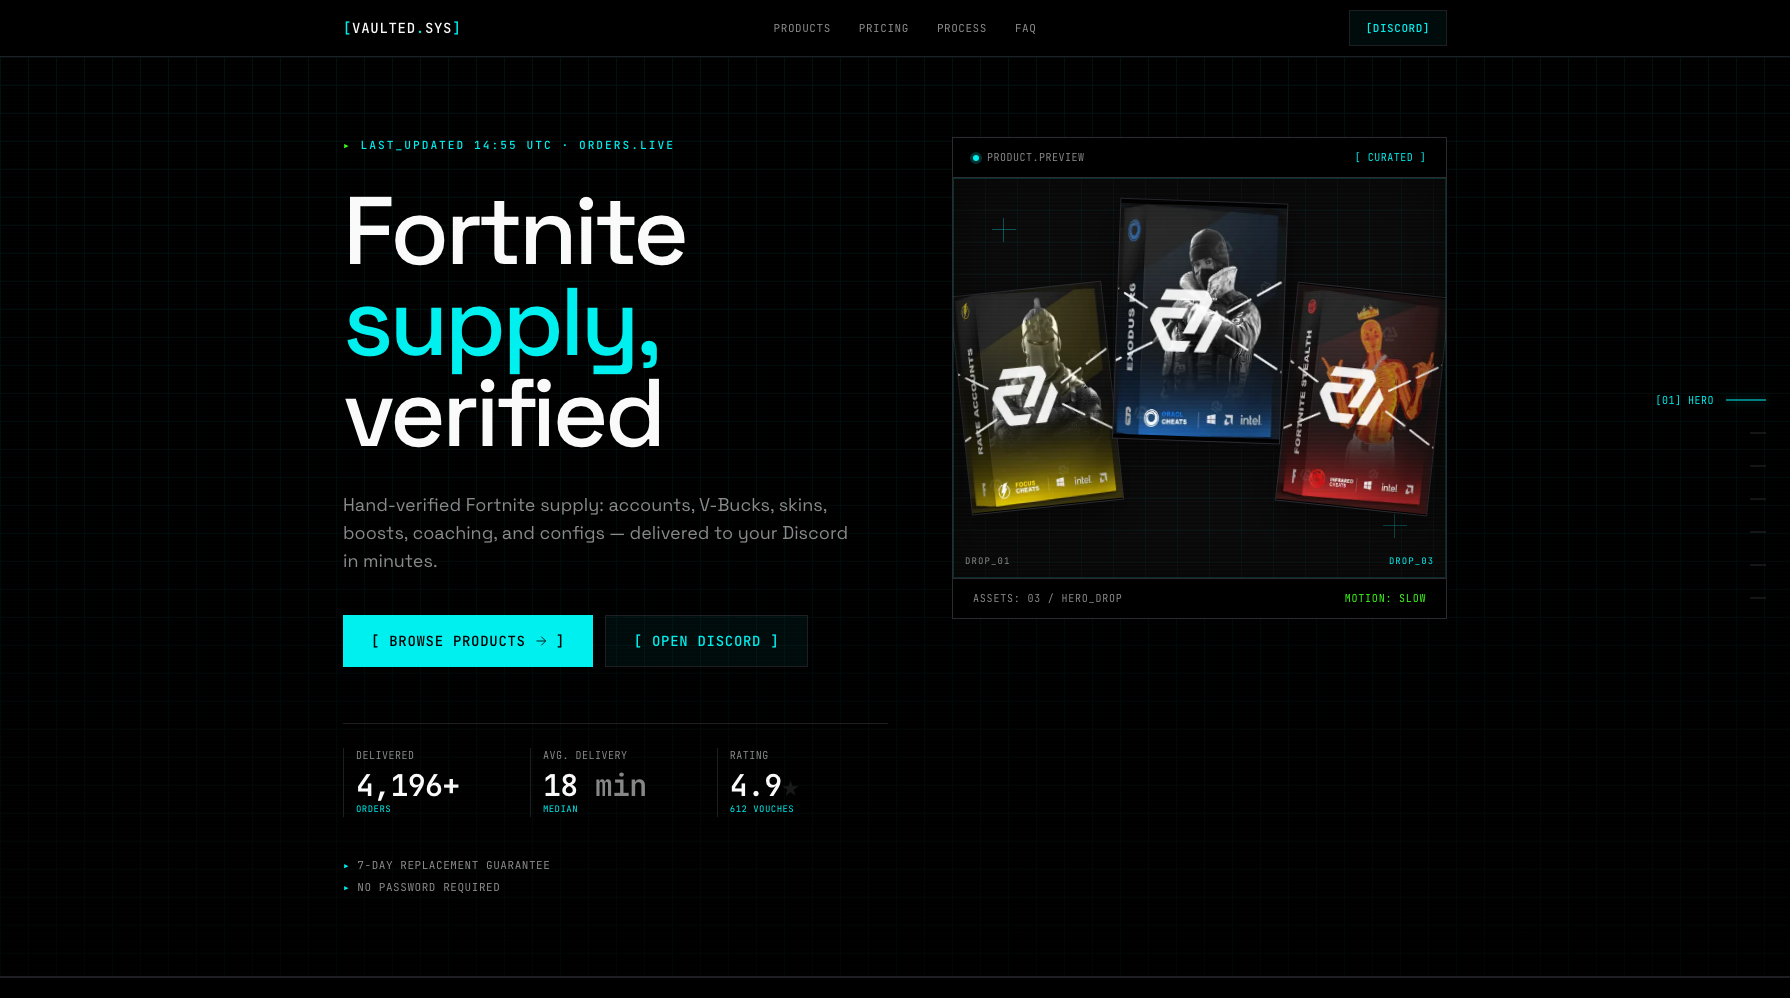
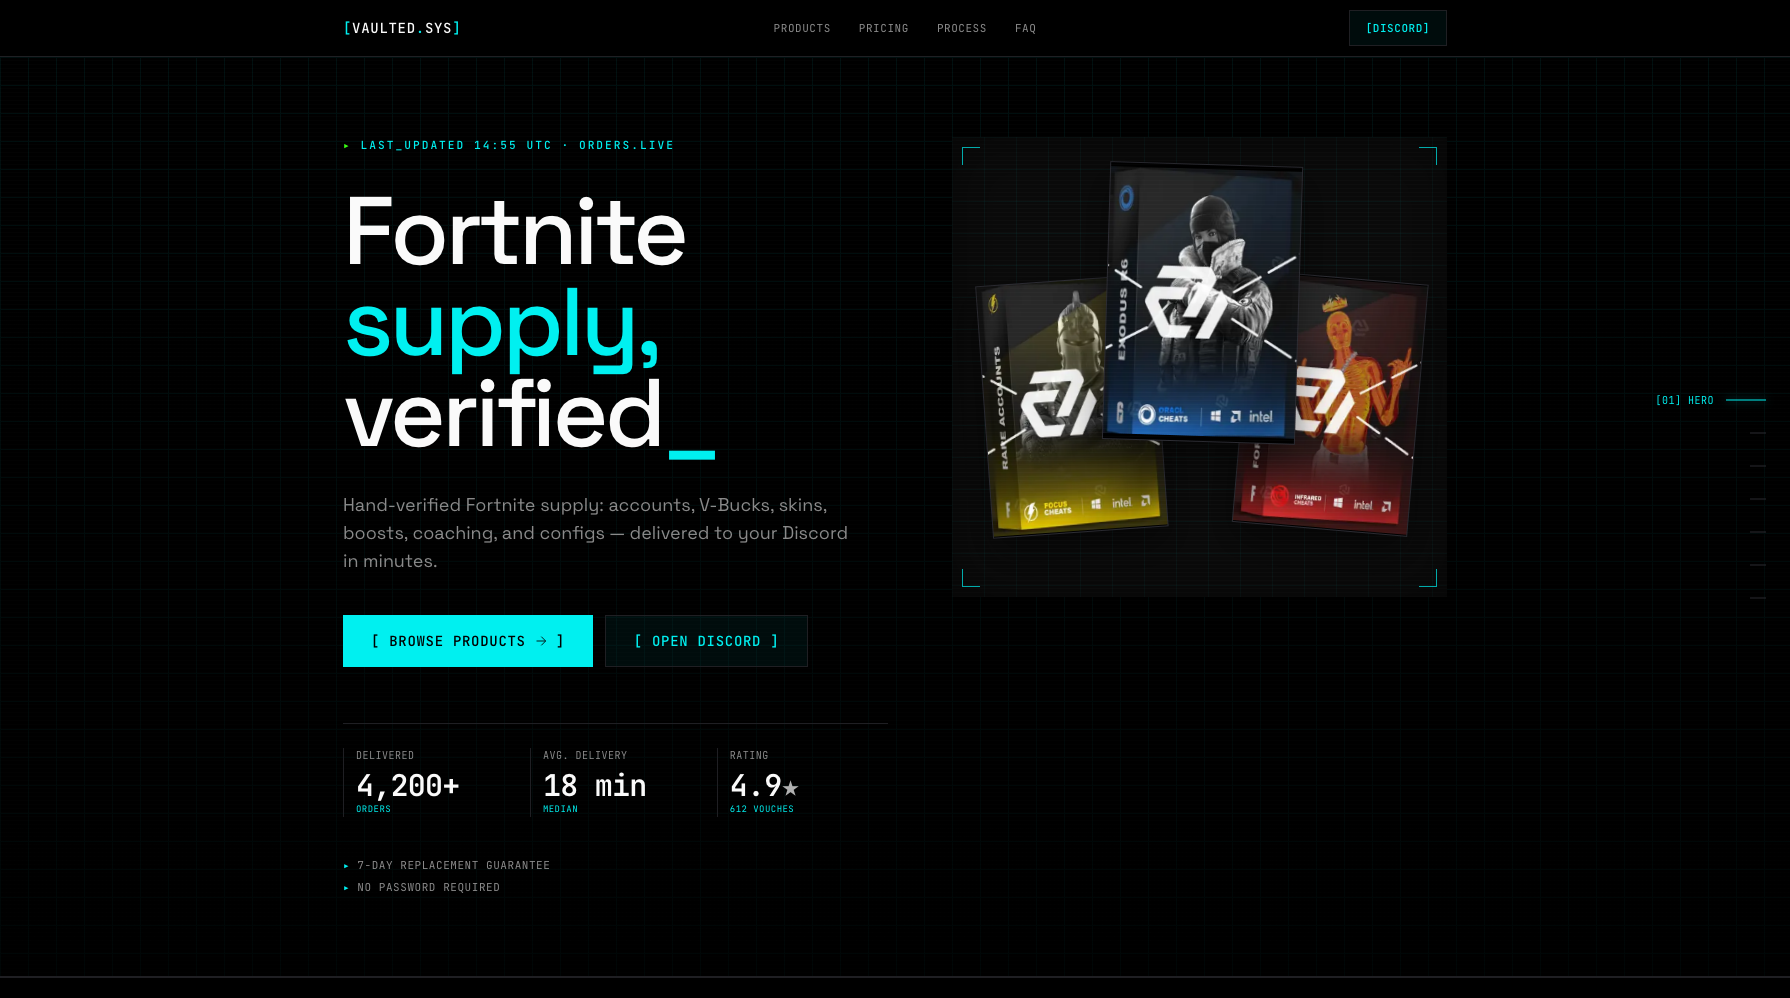
feat(hero): frameless instrument viewport with elliptical product float

diff --git a/src/app/globals.css b/src/app/globals.css
@@ -581,41 +581,14 @@ body {
 .product-stage__frame {
   position: relative;
   overflow: hidden;
-  border: 1px solid var(--border-bright);
-  background: var(--surface);
-}
-
-.product-stage__topbar,
-.product-stage__bottombar {
-  display: flex;
-  align-items: center;
-  justify-content: space-between;
-  gap: 1rem;
-  min-height: 40px;
-  padding: 0.625rem 1.25rem;
-  font-family: var(--font-jetbrains-mono), ui-monospace, monospace;
-  font-size: 10px;
-  line-height: 1.4;
-  letter-spacing: 0.08em;
-  text-transform: uppercase;
-}
-
-.product-stage__topbar {
-  border-bottom: 1px solid var(--border-bright);
-  background: var(--bg);
-}
-
-.product-stage__bottombar {
-  border-top: 1px solid var(--border-bright);
-  background: var(--bg);
-  color: var(--muted);
+  background: transparent;
 }
 
 .product-stage__canvas {
   position: relative;
   isolation: isolate;
   overflow: hidden;
-  height: clamp(320px, 32vw, 400px);
+  height: clamp(360px, 36vw, 460px);
   background-color: var(--surface);
   background-image:
     linear-gradient(to right, rgb(0 240 240 / 0.045) 1px, transparent 1px),
@@ -642,10 +615,53 @@ body {
   position: absolute;
   inset: 0;
   z-index: 5;
-  border: 1px solid rgb(0 240 240 / 0.12);
   box-shadow: inset 0 0 56px rgb(0 0 0 / 0.5);
   content: "";
   pointer-events: none;
+}
+
+.product-stage__corners {
+  position: absolute;
+  inset: 0;
+  z-index: 6;
+  pointer-events: none;
+}
+
+.product-stage__corner {
+  position: absolute;
+  width: 18px;
+  height: 18px;
+  border-color: var(--accent);
+  border-style: solid;
+  opacity: 0.7;
+}
+
+.product-stage__corner--top-left {
+  top: 10px;
+  left: 10px;
+  border-top-width: 1px;
+  border-left-width: 1px;
+}
+
+.product-stage__corner--top-right {
+  top: 10px;
+  right: 10px;
+  border-top-width: 1px;
+  border-right-width: 1px;
+}
+
+.product-stage__corner--bottom-left {
+  bottom: 10px;
+  left: 10px;
+  border-bottom-width: 1px;
+  border-left-width: 1px;
+}
+
+.product-stage__corner--bottom-right {
+  right: 10px;
+  bottom: 10px;
+  border-right-width: 1px;
+  border-bottom-width: 1px;
 }
 
 .product-stage__crosshair {
@@ -692,7 +708,7 @@ body {
 .product-stage__image {
   position: absolute;
   z-index: 2;
-  width: clamp(104px, 31%, 164px);
+  width: clamp(112px, 35.5%, 189px);
   aspect-ratio: 0.696;
   margin: 0;
   overflow: hidden;
@@ -703,23 +719,23 @@ body {
 }
 
 .product-stage__image--one {
-  top: 30%;
-  left: 2%;
-  animation: product-float-one 7.2s var(--ease-out-expo) -1.2s infinite;
+  top: 32%;
+  left: 5%;
+  animation: product-float-one 9.2s ease-in-out -1.2s infinite;
 }
 
 .product-stage__image--two {
   top: 8%;
   left: 50%;
   z-index: 3;
-  width: clamp(116px, 34%, 176px);
-  animation: product-float-two 8.4s var(--ease-out-expo) -3.1s infinite;
+  width: clamp(126px, 39%, 202px);
+  animation: product-float-two 10.4s ease-in-out -3.1s infinite;
 }
 
 .product-stage__image--three {
-  top: 30%;
-  right: 2%;
-  animation: product-float-three 7.8s var(--ease-out-expo) -2.2s infinite;
+  top: 32%;
+  right: 5%;
+  animation: product-float-three 9.8s ease-in-out -2.2s infinite;
 }
 
 .product-stage__image-media {
@@ -734,35 +750,19 @@ body {
   box-shadow: 0 18px 36px rgb(0 0 0 / 0.52), var(--glow-accent);
 }
 
-.product-stage__readout {
-  position: absolute;
-  z-index: 6;
-  bottom: 12px;
-  color: var(--muted);
-  font-family: var(--font-jetbrains-mono), ui-monospace, monospace;
-  font-size: 9px;
-  letter-spacing: 0.12em;
-  line-height: 1;
-  text-transform: uppercase;
-  pointer-events: none;
-}
-
-.product-stage__readout--left {
-  left: 12px;
-}
-
-.product-stage__readout--right {
-  right: 12px;
-  color: var(--accent);
-}
-
 @keyframes product-float-one {
   0%,
   100% {
-    transform: translate3d(0, 0, 0) rotate(-8deg);
+    transform: translate3d(0, 0, 0) rotate(-7deg);
+  }
+  25% {
+    transform: translate3d(7px, -4px, 0) rotate(-4deg);
   }
   50% {
-    transform: translate3d(-3px, -10px, 0) rotate(-6deg);
+    transform: translate3d(2px, -10px, 0) rotate(-6deg);
+  }
+  75% {
+    transform: translate3d(-5px, -4px, 0) rotate(-9deg);
   }
 }
 
@@ -771,38 +771,75 @@ body {
   100% {
     transform: translate3d(-50%, 0, 0) rotate(1deg);
   }
+  25% {
+    transform: translate3d(calc(-50% + 6px), -5px, 0) rotate(3deg);
+  }
   50% {
-    transform: translate3d(-50%, -14px, 0) rotate(2.5deg);
+    transform: translate3d(calc(-50% + 2px), -11px, 0) rotate(1.5deg);
+  }
+  75% {
+    transform: translate3d(calc(-50% - 5px), -5px, 0) rotate(-1deg);
   }
 }
 
 @keyframes product-float-three {
   0%,
   100% {
-    transform: translate3d(0, 0, 0) rotate(8deg);
+    transform: translate3d(0, 0, 0) rotate(7deg);
+  }
+  25% {
+    transform: translate3d(-7px, -5px, 0) rotate(4deg);
   }
   50% {
-    transform: translate3d(3px, -9px, 0) rotate(6deg);
+    transform: translate3d(-2px, -10px, 0) rotate(6deg);
+  }
+  75% {
+    transform: translate3d(5px, -4px, 0) rotate(9deg);
   }
 }
 
 @media (max-width: 639px) {
-  .product-stage__topbar,
-  .product-stage__bottombar {
-    padding-inline: 1rem;
-  }
-
   .product-stage__canvas {
     height: 320px;
   }
 
+  .product-stage__image {
+    width: clamp(88px, 32%, 124px);
+  }
+
   .product-stage__image--one,
   .product-stage__image--three {
-    top: 31%;
+    top: 32%;
   }
 
   .product-stage__image--two {
-    top: 10%;
+    top: 11%;
+    width: clamp(98px, 36%, 136px);
+  }
+
+  .product-stage__corner {
+    width: 14px;
+    height: 14px;
+  }
+
+  .product-stage__corner--top-left,
+  .product-stage__corner--top-right {
+    top: 6px;
+  }
+
+  .product-stage__corner--top-left,
+  .product-stage__corner--bottom-left {
+    left: 6px;
+  }
+
+  .product-stage__corner--top-right,
+  .product-stage__corner--bottom-right {
+    right: 6px;
+  }
+
+  .product-stage__corner--bottom-left,
+  .product-stage__corner--bottom-right {
+    bottom: 6px;
   }
 }
 
@@ -813,7 +850,7 @@ body {
   }
 
   .product-stage__image--one {
-    transform: rotate(-8deg);
+    transform: rotate(-7deg);
   }
 
   .product-stage__image--two {
@@ -821,6 +858,6 @@ body {
   }
 
   .product-stage__image--three {
-    transform: rotate(8deg);
+    transform: rotate(7deg);
   }
 }

diff --git a/src/components/sections/ProductStage.tsx b/src/components/sections/ProductStage.tsx
@@ -27,34 +27,17 @@ export function ProductStage() {
   return (
     <aside className="product-stage" aria-labelledby="product-stage-title">
       <div className="product-stage__frame">
-        <div className="product-stage__topbar">
-          <div className="flex items-center gap-2">
-            <span
-              aria-hidden="true"
-              className="size-1.5 rounded-full bg-accent pulse-cyan"
-            />
-            <span className="mono text-[10px] uppercase tracking-wider text-muted">
-              product.preview
-            </span>
-          </div>
-          <span className="mono text-[10px] uppercase tracking-wider text-accent">
-            [ curated ]
-          </span>
-        </div>
-
         <div className="product-stage__canvas">
           <h2 id="product-stage-title" className="sr-only">
-            Curated Vaulted product previews
+            Vaulted product previews
           </h2>
 
-          <span
-            aria-hidden="true"
-            className="product-stage__crosshair product-stage__crosshair--top"
-          />
-          <span
-            aria-hidden="true"
-            className="product-stage__crosshair product-stage__crosshair--bottom"
-          />
+          <div className="product-stage__corners" aria-hidden="true">
+            <span className="product-stage__corner product-stage__corner--top-left" />
+            <span className="product-stage__corner product-stage__corner--top-right" />
+            <span className="product-stage__corner product-stage__corner--bottom-left" />
+            <span className="product-stage__corner product-stage__corner--bottom-right" />
+          </div>
 
           {PRODUCT_IMAGES.map((image, index) => (
             <figure className={`product-stage__image ${image.className}`} key={image.src}>
@@ -63,23 +46,11 @@ export function ProductStage() {
                 alt={image.alt}
                 fill
                 preload={index === 1}
-                sizes="(max-width: 639px) 31vw, (max-width: 1023px) 22vw, 164px"
+                sizes="(max-width: 639px) 35vw, (max-width: 1023px) 28vw, 202px"
                 className="product-stage__image-media"
               />
             </figure>
           ))}
-
-          <span className="product-stage__readout product-stage__readout--left" aria-hidden="true">
-            drop_01
-          </span>
-          <span className="product-stage__readout product-stage__readout--right" aria-hidden="true">
-            drop_03
-          </span>
-        </div>
-
-        <div className="product-stage__bottombar">
-          <span>assets: 03 / hero_drop</span>
-          <span className="text-accent-2">motion: slow</span>
         </div>
       </div>
     </aside>
